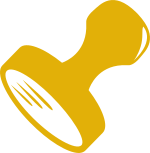
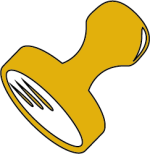
fixed picture galery bug which cause the images to not be centered and added outline to stamp image

Changed region(s): [[0.0, 0.0, 1.0, 1.0]]

diff --git a/app/src/main/java/de/jadehs/vcg/layout/fragments/galery/PictureGallery.kt b/app/src/main/java/de/jadehs/vcg/layout/fragments/galery/PictureGallery.kt
@@ -40,13 +40,15 @@ class PictureGallery : Fragment() {
         view.apply {
             val recyclerView = this.findViewById<RecyclerView>(R.id.recycler_view).apply {
                 layoutManager = LinearLayoutManager(view.context, RecyclerView.HORIZONTAL, false)
+
+                pictureUriList?.let { list ->
+                    adapter = MediaPagerAdapter(list, childFragmentManager)
+                }
                 val snapHelper = PagerSnapHelper()
                 snapHelper.attachToRecyclerView(this)
             }
 
-            pictureUriList?.run {
-                recyclerView.adapter = MediaPagerAdapter(this, childFragmentManager)
-            }
+
         }
     }
 
